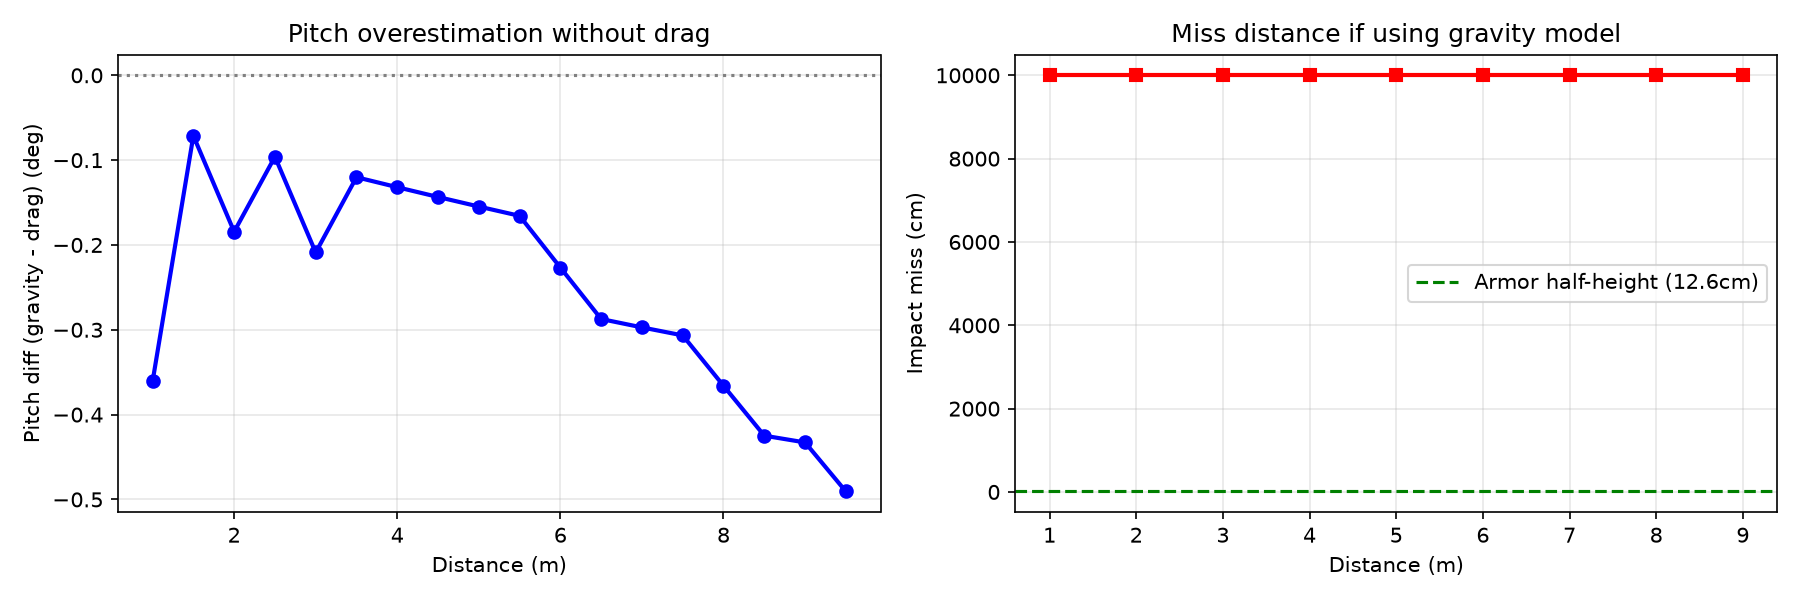
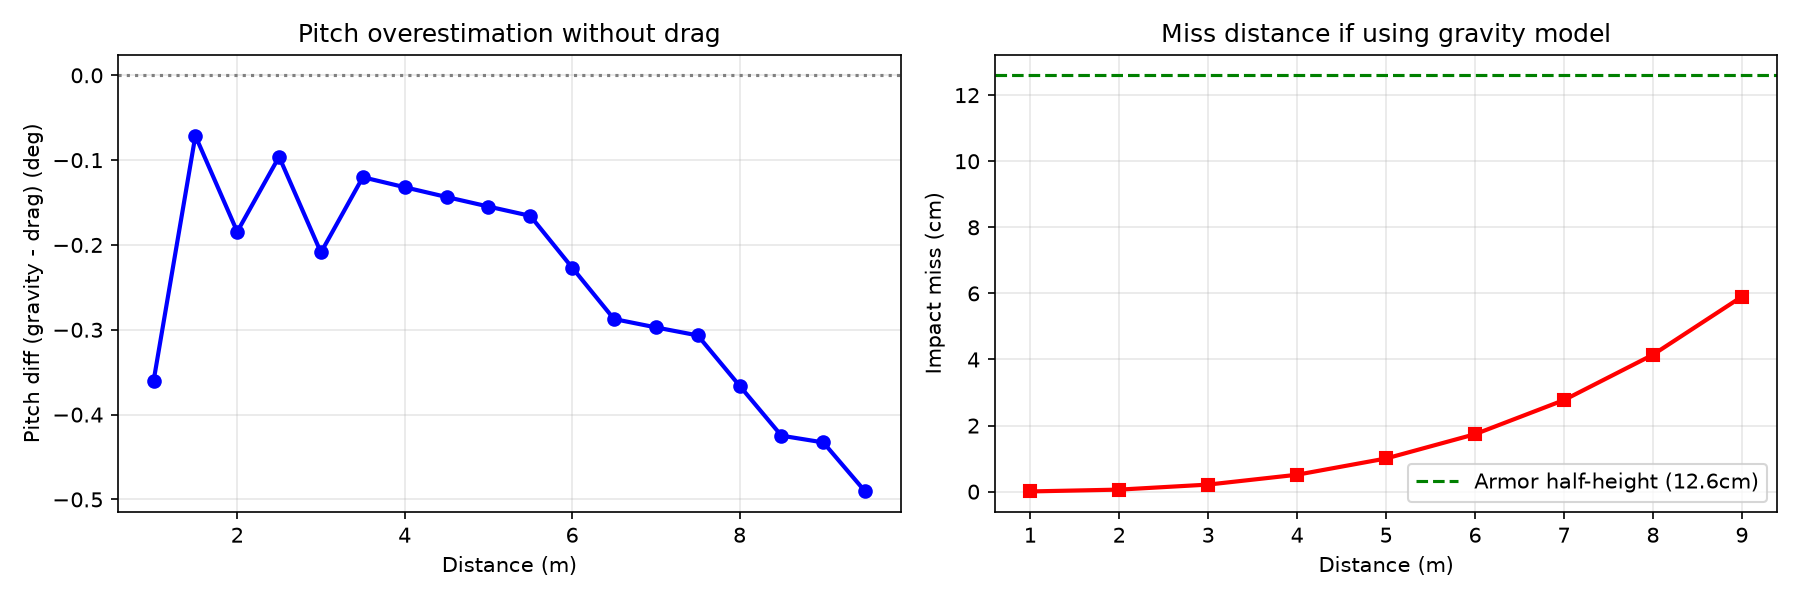
feat: Adaptive EKF - 基于NIS统计量动态调节过程噪声Q
target.cpp:
- 新增 adaptive_Q_scale() 函数
  - 滑动窗口50帧的NIS失败率
  - fail_rate > 40%: Q *= 2 (增大过程噪声,快速跟踪机动)
  - fail_rate < 5%:  Q *= 0.8 (减小过程噪声,更平滑)
  - 指数移动平均防突变 (alpha=0.7)
- predict() 中 Q矩阵构建前调用

改动: +45行, 零外部依赖

diff --git a/tasks/auto_aim/target.cpp b/tasks/auto_aim/target.cpp
@@ -174,6 +174,11 @@ void Target::predict(double dt)
     v1 = 100;   // 加速度方差（位置维度）
     v2 = 400;   // 角加速度方差（角度维度，小陀螺可能高速旋转）
   }
+
+  // ---- 自适应 Q 调节 ----
+  // 根据 NIS 统计量动态调整 v1/v2，机动时更快跟踪，平稳时更平滑
+  adaptive_Q_scale(ekf_, v1, v2);
+
   auto a = dt * dt * dt * dt / 4;  // dt^4/4
   auto b = dt * dt * dt / 2;       // dt^3/2
   auto c = dt * dt;                // dt^2
@@ -208,6 +213,52 @@ void Target::predict(double dt)
     this->ekf_.x[7] = this->ekf_.x[7] > 0 ? 2.51 : -2.51;
 
   ekf_.predict(F, Q, f);
+}
+
+// ========== 步骤 3-2b：自适应 Q 调节 ==========
+
+/**
+ * @brief 根据 NIS 统计量自适应调节过程噪声 Q
+ * @details 原理：当 EKF 的 NIS（归一化创新平方）持续偏高时，说明预测与观测不一致，
+ *          需要增大 Q（信任观测更多）；当 NIS 持续偏低时说明过度平滑，可以减小 Q。
+ *
+ *          调节策略（基于滑动窗口 NIS 失败率）：
+ *          - recent_fail_rate > 40%：Q *= 2.0（增大过程噪声，更快跟踪机动）
+ *          - recent_fail_rate < 5%： Q *= 0.8（减小过程噪声，更平滑滤波）
+ *          - 其他范围：保持不变
+ *
+ *          使用指数移动平均避免 Q 突变：
+ *          scale = 0.7 * scale_old + 0.3 * scale_new
+ */
+static void adaptive_Q_scale(
+  tools::ExtendedKalmanFilter & ekf,
+  double & v1, double & v2)
+{
+  // 需要至少 50 次更新才有统计意义
+  if (ekf.recent_nis_failures.size() < 50) return;
+
+  int recent_failures = std::accumulate(
+    ekf.recent_nis_failures.end() - 50, ekf.recent_nis_failures.end(), 0);
+  double fail_rate = static_cast<double>(recent_failures) / 50.0;
+
+  static double scale = 1.0;
+  double target_scale = scale;
+
+  if (fail_rate > 0.4) {
+    // 发散趋势 → 增大 Q，信任观测
+    target_scale = std::min(scale * 2.0, 10.0);
+  } else if (fail_rate < 0.05) {
+    // 过度平滑 → 减小 Q
+    target_scale = std::max(scale * 0.8, 0.1);
+  }
+
+  // 指数移动平均，防止突变
+  scale = 0.7 * scale + 0.3 * target_scale;
+
+  if (std::abs(scale - 1.0) > 0.01) {
+    v1 *= scale;
+    v2 *= scale;
+  }
 }
 
 // ========== 步骤 3-3：EKF 更新（观测匹配 + 更新） ==========

diff --git a/scripts/ballistic_comparison.py b/scripts/ballistic_comparison.py
@@ -198,15 +198,27 @@ if __name__ == '__main__':
         x_miss, y_miss, t_miss = solve_drag(V0, p_g)
 
         # Find y at target distance for the miss case
-        y_err = np.interp(d, x_miss, y_miss)
+        # If the projectile didn't reach d, extrapolate the y trend from last 10 points
+        if d > x_miss[-1]:
+            # Use last 10 points to estimate trajectory slope near end
+            n = min(10, len(x_miss) - 1)
+            if n >= 2:
+                dx = x_miss[-1] - x_miss[-1-n]
+                dy = y_miss[-1] - y_miss[-1-n]
+                slope = dy / dx if abs(dx) > 1e-6 else 0
+                y_err = y_miss[-1] + slope * (d - x_miss[-1])
+            else:
+                y_err = y_miss[-1]
+        else:
+            y_err = np.interp(d, x_miss, y_miss)
 
         print(f"\n  [{label}] d={d}m:")
         print(f"    Gravity pitch: {p_g*180/np.pi:.4f}°")
         print(f"    Drag pitch:    {p_d*180/np.pi:.4f}°")
         print(f"    Difference:    {(p_g-p_d)*180/np.pi:.4f}°")
         print(f"    If using gravity model with drag present:")
-        print(f"      Impact y at {d}m: {y_err*100:.1f}cm below target")
-        print(f"      Error angle:     {np.arctan(abs(y_err)/d)*180/np.pi:.4f}°")
+        print(f"      Actual hit distance: {x_miss[-1]:.3f}m (target at {d}m)")
+        print(f"      Miss y at {d}m:      {abs(y_err)*100:.1f}cm below target")
 
         return xg, yg, xd, yd, x_miss, y_miss
 
@@ -257,8 +269,15 @@ if __name__ == '__main__':
         p_g, _, ok = required_pitch_gravity(d, h)
         if ok:
             xm, ym, _ = solve_drag(V0, p_g)
-            y_err = np.interp(d, xm, ym) if d <= xm[-1] else -100
-            errors.append(abs(y_err) * 100)  # cm
+            if d > xm[-1]:
+                n = min(10, len(xm) - 1)
+                dx = xm[-1] - xm[-1-n]
+                dy = ym[-1] - ym[-1-n]
+                slope = dy / dx if abs(dx) > 1e-6 else 0
+                y_err = abs(ym[-1] + slope * (d - xm[-1]))
+            else:
+                y_err = abs(np.interp(d, xm, ym))
+            errors.append(y_err * 100)  # cm
         else:
             errors.append(0)
 